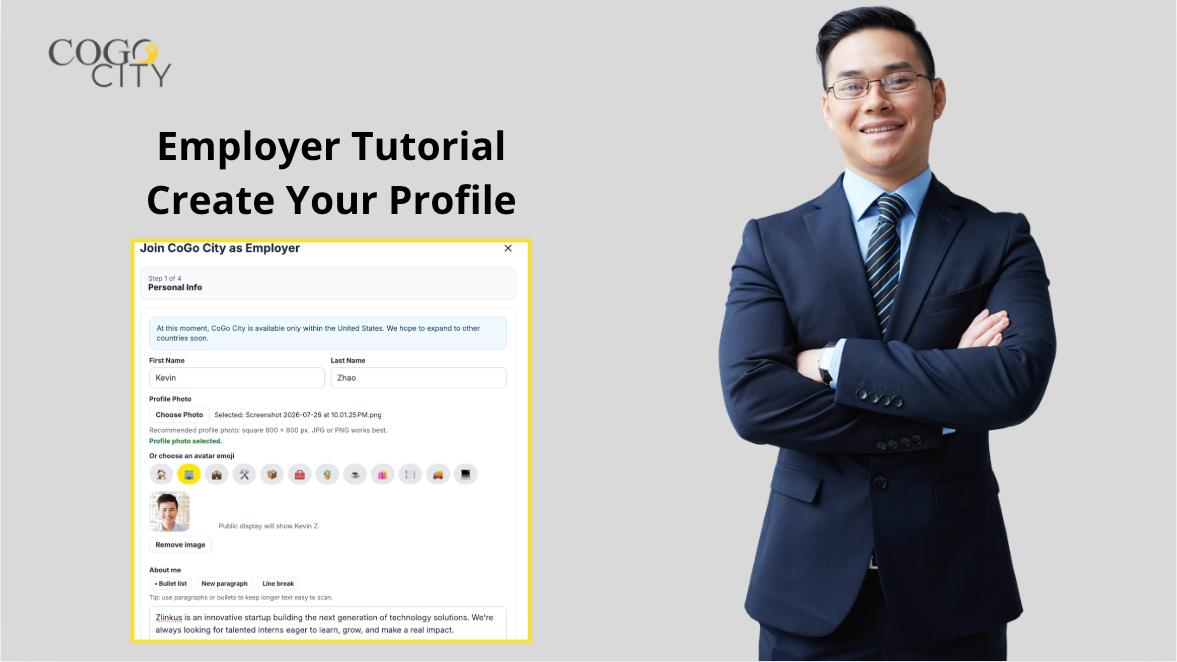
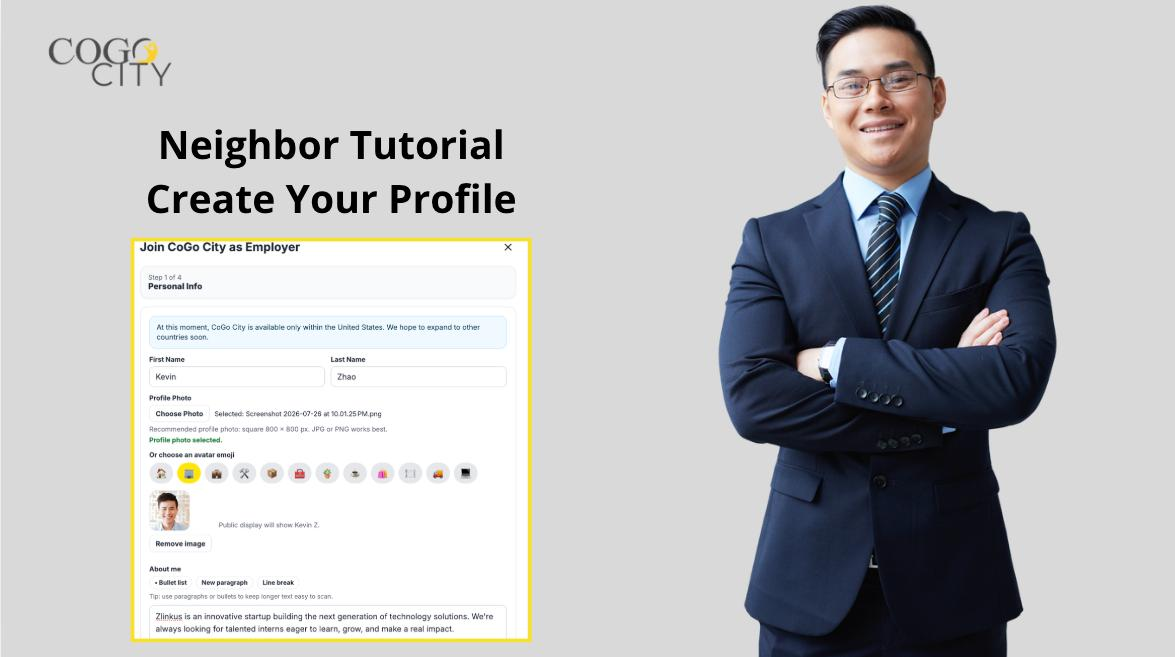
Use uploaded tutorial poster images on production

diff --git a/index.html b/index.html
@@ -941,7 +941,7 @@ const HOW_IT_WORKS_TUTORIALS = [
     role: 'Student Tutorial',
     title: 'How to Create a Student Profile on CoGo City | Get Hired for Part-Time Jobs & Paid Projects',
     videoUrl: 'https://youtu.be/Y3Y9mhSAHgw',
-    posterUrl: 'assets/how-it-works-student-tutorial.jpg?v=20260728',
+    posterUrl: 'assets/how-it-works-student-tutorial.jpg?v=20260728c',
     description: 'Learn how to create your student profile on CoGo City and get ready to apply for paid projects, part-time jobs, and internships.',
     ctaLabel: 'Create a Student Profile',
     ctaAction: `openStudentSignupWorkflow()`
@@ -951,7 +951,7 @@ const HOW_IT_WORKS_TUTORIALS = [
     role: 'Neighbor Tutorial',
     title: 'How to Create a Neighbor Profile on CoGo City | Hire Local Students & Post Jobs',
     videoUrl: 'https://youtu.be/zbigBsTSIx4',
-    posterUrl: 'assets/how-it-works-neighbor-tutorial.jpg?v=20260728',
+    posterUrl: 'assets/how-it-works-neighbor-tutorial.jpg?v=20260728c',
     description: 'Learn how to create your Neighbor profile on CoGo City so you can hire trusted local students for part-time jobs, one-time projects, and everyday help.',
     ctaLabel: 'Create a Neighbor Profile',
     ctaAction: `openEmployerSignupWorkflow('neighbor')`
@@ -961,7 +961,7 @@ const HOW_IT_WORKS_TUTORIALS = [
     role: 'Employer Tutorial',
     title: 'How to Create an Employer Profile on CoGo City | Hire Students & Post Jobs',
     videoUrl: 'https://youtu.be/ugXCSwjIISU',
-    posterUrl: 'assets/how-it-works-employer-tutorial.jpg?v=20260728',
+    posterUrl: 'assets/how-it-works-employer-tutorial.jpg?v=20260728c',
     description: 'Learn how to create your Employer profile on CoGo City and start hiring local students for part-time jobs, paid projects, internships, and seasonal work.',
     ctaLabel: 'Create an Employer Profile',
     ctaAction: `openEmployerSignupWorkflow('employer')`
@@ -971,7 +971,7 @@ const HOW_IT_WORKS_TUTORIALS = [
     role: 'Stripe Connect Tutorial',
     title: 'Set Up Stripe Connect to Receive Payments | Cogo City',
     videoUrl: 'https://youtu.be/BNIQWA8E5rA',
-    posterUrl: 'assets/how-it-works-stripe-connect-tutorial.jpg?v=20260728',
+    posterUrl: 'assets/how-it-works-stripe-connect-tutorial.jpg?v=20260728c',
     description: 'To receive payments for completed projects on Cogo City, you will need to connect a Stripe Connect account. The setup is quick, secure, and typically takes just a few minutes. Stripe is one of the world\'s most trusted payment platforms, used by millions of businesses to process payments securely. Your banking and payment information is entered directly into Stripe and is never stored or accessible by Cogo City. Once your Stripe account is connected, you will be ready to receive payments for every completed project you finish through CoGo City.',
     ctaLabel: 'Set Up Stripe Connect',
     ctaAction: `openStripeConnectTutorialSetup()`
@@ -13785,14 +13785,33 @@ function getVideoEmbedUrl(url){
 }
 function getVideoPosterUrl(video){
   if (!video) return '';
+  if (video.posterUrl) return String(video.posterUrl).trim();
   if (video.type === 'youtube' && video.videoId) return `https://img.youtube.com/vi/${video.videoId}/hqdefault.jpg`;
   if (video.type === 'vimeo' && video.videoId) return `https://vumbnail.com/${video.videoId}.jpg`;
   return '';
 }
+const VIDEO_POSTER_DIMENSIONS = {
+  'Y3Y9mhSAHgw': { width:1175, height:662 },
+  'zbigBsTSIx4': { width:1176, height:661 },
+  'ugXCSwjIISU': { width:1175, height:657 },
+  'BNIQWA8E5rA': { width:1172, height:659 }
+};
+function getVideoPosterMeta(video=null){
+  const videoId = String(video?.videoId || video?.id || '').trim();
+  const dims = VIDEO_POSTER_DIMENSIONS[videoId] || null;
+  return {
+    width: dims?.width || '',
+    height: dims?.height || ''
+  };
+}
 function renderVideoPosterImage(video=null, label='Video preview', loading='lazy'){
   const posterUrl = getVideoPosterUrl(video);
   if (!posterUrl) return '';
-  return `<img src="${esc(posterUrl)}" alt="${esc(label)}" loading="${esc(loading)}" style="position:absolute;inset:0;width:100%;height:100%;object-fit:cover;display:block">`;
+  const posterMeta = getVideoPosterMeta(video);
+  const sizeAttrs = posterMeta.width && posterMeta.height
+    ? ` width="${posterMeta.width}" height="${posterMeta.height}"`
+    : '';
+  return `<img src="${esc(posterUrl)}" alt="${esc(label)}" loading="${esc(loading)}" decoding="async"${sizeAttrs} style="position:absolute;inset:0;width:100%;height:100%;object-fit:cover;display:block;image-rendering:auto;image-rendering:-webkit-optimize-contrast;backface-visibility:hidden;transform:translateZ(0)">`;
 }
 function getVideoWatchUrl(video){
   if (!video) return '';
